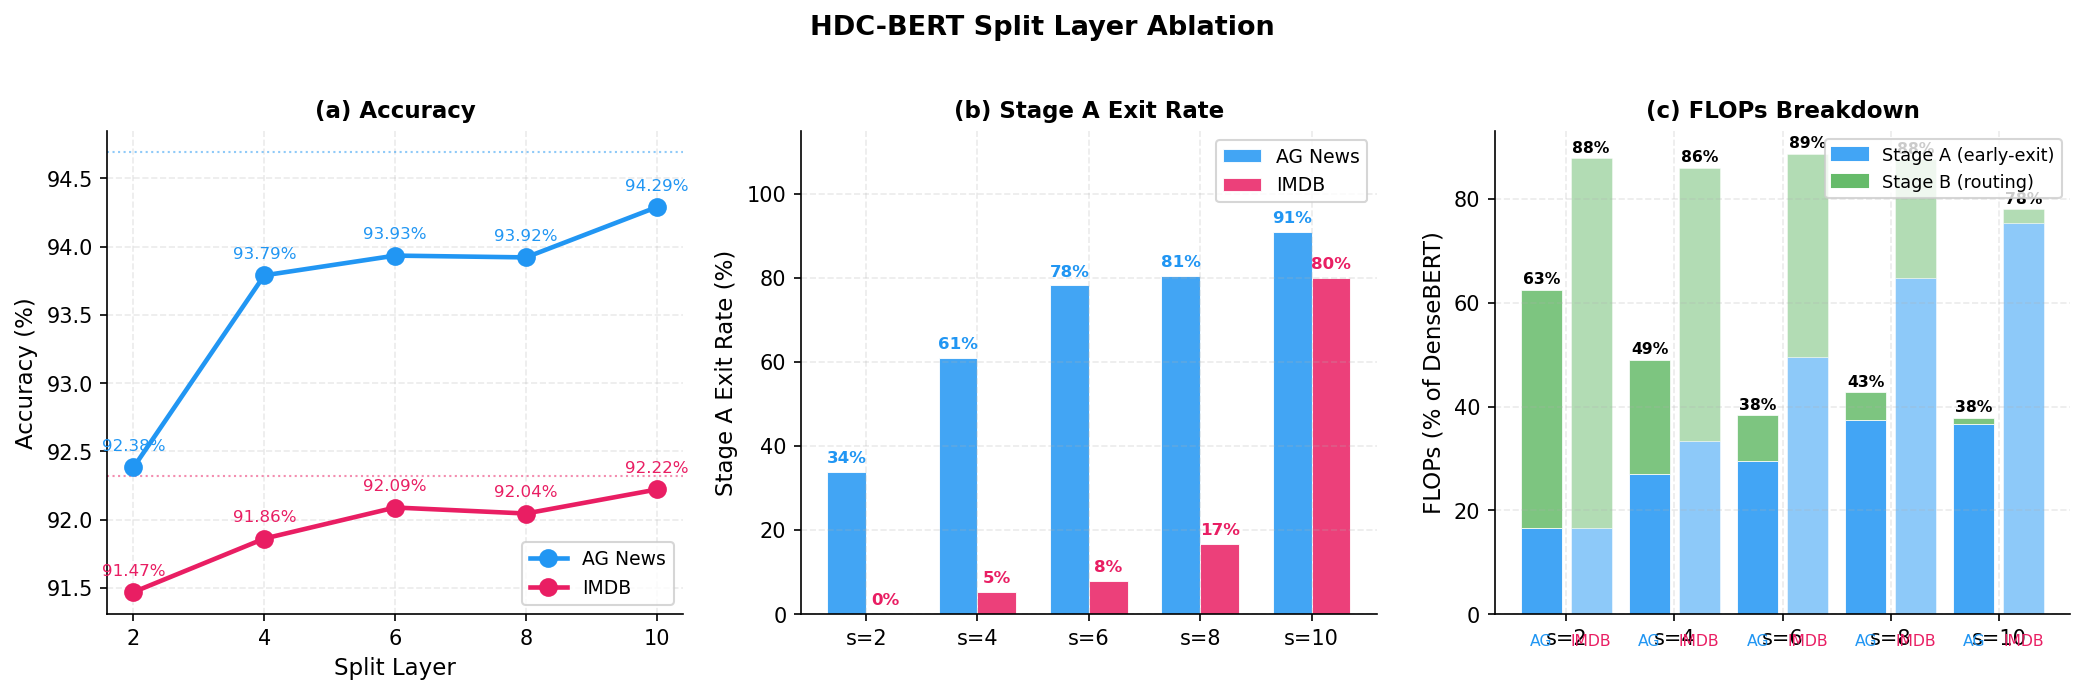
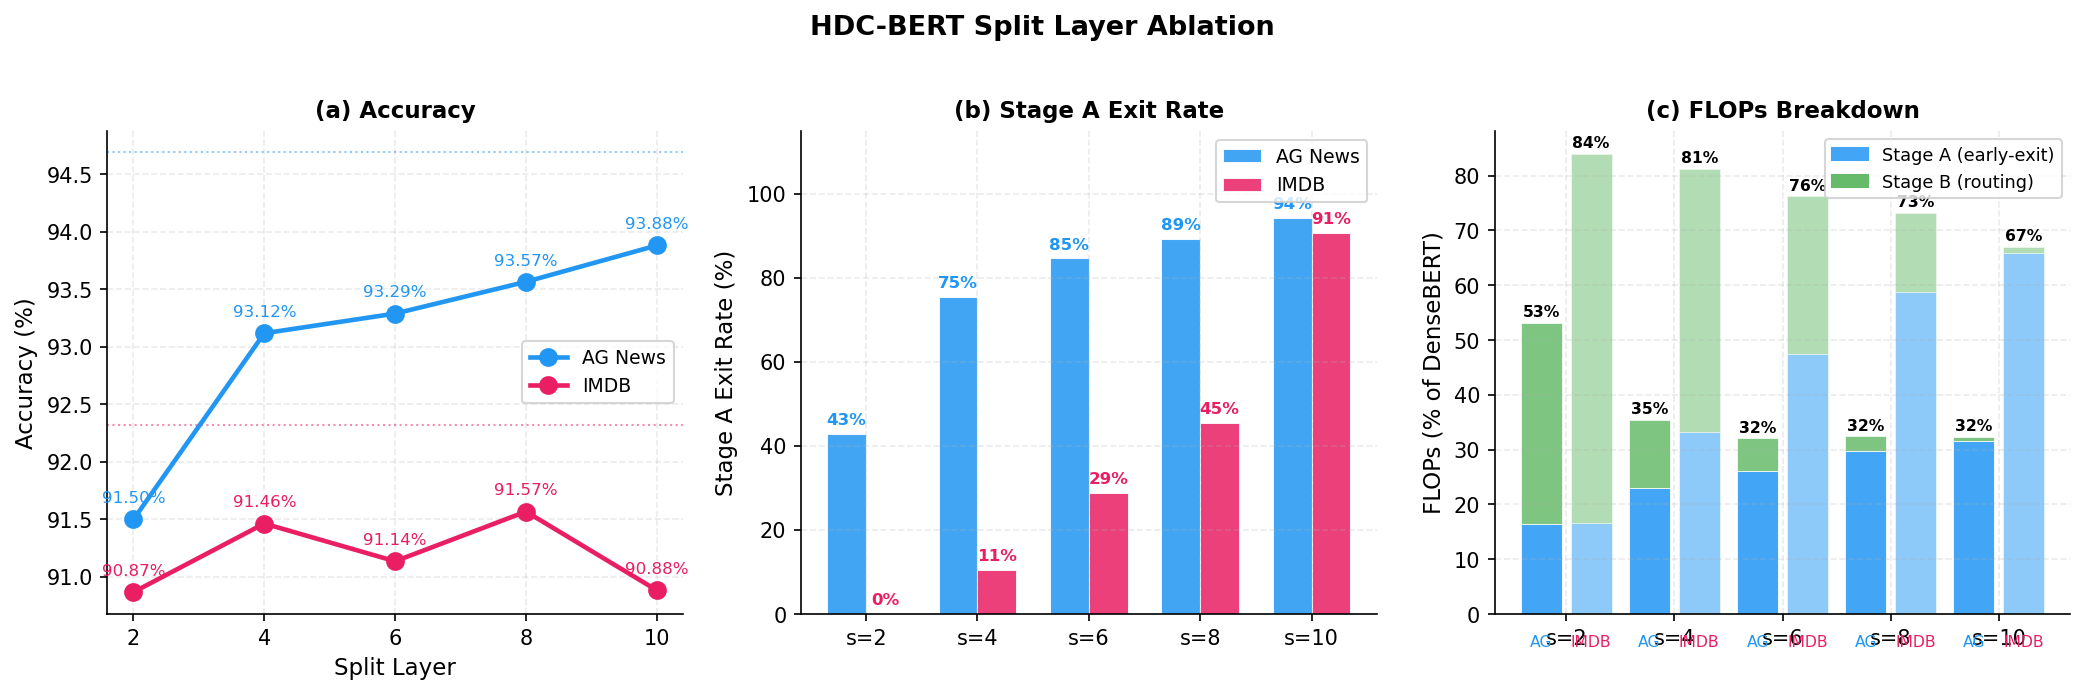
添加hdc pareto代码

diff --git a/experiments_split/plot_split.py b/experiments_split/plot_split.py
@@ -168,3 +168,65 @@ plt.tight_layout()
 out = ROOT / "experiments_split/split_ablation.png"
 plt.savefig(out, dpi=150, bbox_inches="tight")
 print(f"Saved → {out}")
+
+# ── Figure 2: FLOPs vs Accuracy (improved) ───────────────────────────
+fig2, ax2 = plt.subplots(figsize=(8, 5.5))
+
+# manual label offsets to avoid overlapping:  (dx, dy) in points
+OFFSETS_AG   = {2: (-8, -14), 4: (-8, -14), 6: (6, 7), 8: (6, 7), 10: (6, 7)}
+OFFSETS_IMDB = {2: (6, 7), 4: (6, -12), 6: (-10, -14), 8: (6, 7), 10: (6, 7)}
+
+for label, rows, color, base_acc, offsets in [
+        ("AG News", agnews, C_AG,   94.66, OFFSETS_AG),
+        ("IMDB",    imdb,   C_IMDB, 92.34, OFFSETS_IMDB)]:
+    flops_pct = [r["total_pct"] for r in rows]
+    accs      = [r["acc"]       for r in rows]
+
+    # manually chosen best split per dataset
+    best_split = {"AG News": 6, "IMDB": 8}[label]
+    best_idx = next(i for i, r in enumerate(rows) if r["split"] == best_split)
+
+    # plot all points as scatter (no connecting line — avoids zigzag)
+    ax2.scatter(flops_pct, accs, color=color, s=70, zorder=3, alpha=0.7,
+                edgecolors="white", linewidths=0.8, label=label)
+
+    # highlight best split with a star
+    ax2.scatter(flops_pct[best_idx], accs[best_idx], color=color,
+                marker="*", s=350, zorder=5, edgecolors="white", linewidths=0.8)
+
+    for r in rows:
+        dx, dy = offsets[r["split"]]
+        is_best = (r["split"] == rows[best_idx]["split"])
+        txt = f"s={r['split']}"
+        if is_best:
+            txt += " (best)"
+        ax2.annotate(txt, (r["total_pct"], r["acc"]),
+                     textcoords="offset points", xytext=(dx, dy),
+                     fontsize=8.5, color=color,
+                     fontweight="bold" if is_best else "normal")
+
+    # baseline reference: 100% FLOPs
+    ax2.plot(100, base_acc, marker="D", markersize=9, color=color,
+             zorder=4, markeredgecolor="white", markeredgewidth=1.0)
+    ax2.annotate(f"Dense\n{base_acc:.2f}%", (100, base_acc),
+                 textcoords="offset points", xytext=(-45, -8),
+                 fontsize=8, color=color, fontstyle="italic",
+                 ha="center")
+
+    # dashed line connecting best to baseline to show savings
+    ax2.plot([flops_pct[best_idx], 100], [accs[best_idx], base_acc],
+             color=color, linestyle="--", linewidth=1.0, alpha=0.4, zorder=2)
+
+ax2.set_xlabel("FLOPs (% of Dense BERT)", fontsize=12)
+ax2.set_ylabel("Accuracy (%)", fontsize=12)
+ax2.set_title("HDC-BERT: FLOPs vs Accuracy Trade-off",
+              fontsize=13, fontweight="bold")
+ax2.legend(fontsize=10, loc="lower right")
+ax2.spines["top"].set_visible(False)
+ax2.spines["right"].set_visible(False)
+ax2.grid(True, alpha=0.25, linestyle="--")
+
+fig2.tight_layout()
+out2 = ROOT / "experiments_split/split_flops_accuracy.png"
+fig2.savefig(out2, dpi=150, bbox_inches="tight")
+print(f"Saved → {out2}")

diff --git a/experiments_pareto/plot_pareto.py b/experiments_pareto/plot_pareto.py
@@ -88,21 +88,17 @@ def load_routerbert_pareto(dataset):
     return points
 
 def load_hdc_pareto(dataset):
-    split_dir = ROOT / "experiments_split" / dataset
+    f = ROOT / "experiments_pareto/hdcbert" / dataset / "pareto.json"
+    data = json.loads(f.read_text())
     seq_len = 128 if dataset == "agnews" else 256
+    split_layer = 6 if dataset == "agnews" else 8   # best split
     base = baseline_flops(seq_len)
     points = []
-    for split in [2, 4, 6, 8, 10]:
-        f = split_dir / f"split_{split}/results.json"
-        if not f.exists():
-            continue
-        r = json.loads(f.read_text())
-        fed = r["flops_estimation_data"]
-        hist = fed["exit_histogram"]
-        keeps = fed["stage_b_eval_keep_rates"]
-        flops = hdc_flops(seq_len, hist, keeps, split)
-        acc = r["hdc_inference"]["accuracy"] * 100
-        points.append((flops / base * 100, acc))
+    for pt in data["sweep"]:
+        hist  = pt["exit_histogram"]
+        keeps = pt["per_layer_keep_rates_b"]
+        flops = hdc_flops(seq_len, hist, keeps, split_layer)
+        points.append((flops / base * 100, pt["accuracy"] * 100))
     return points
 
 # ── Plotting ──────────────────────────────────────────────────────────
